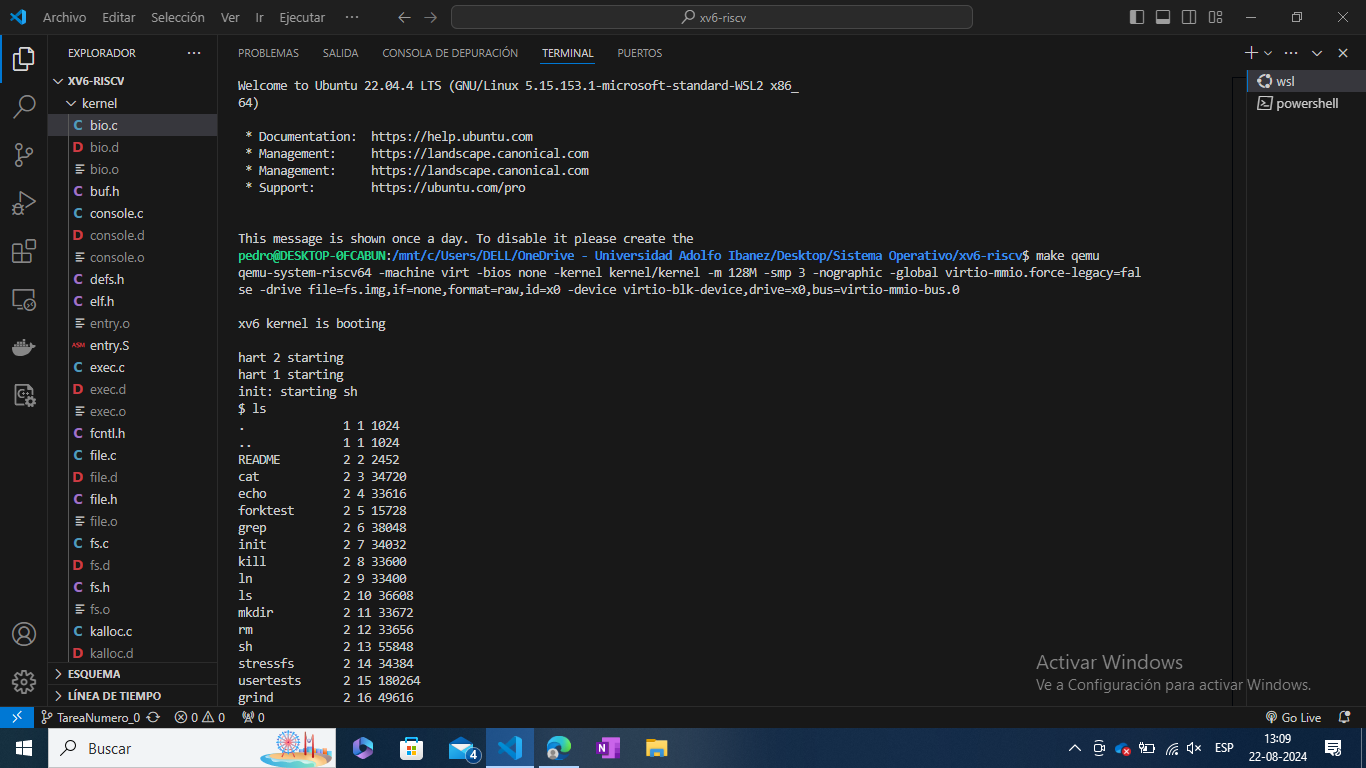
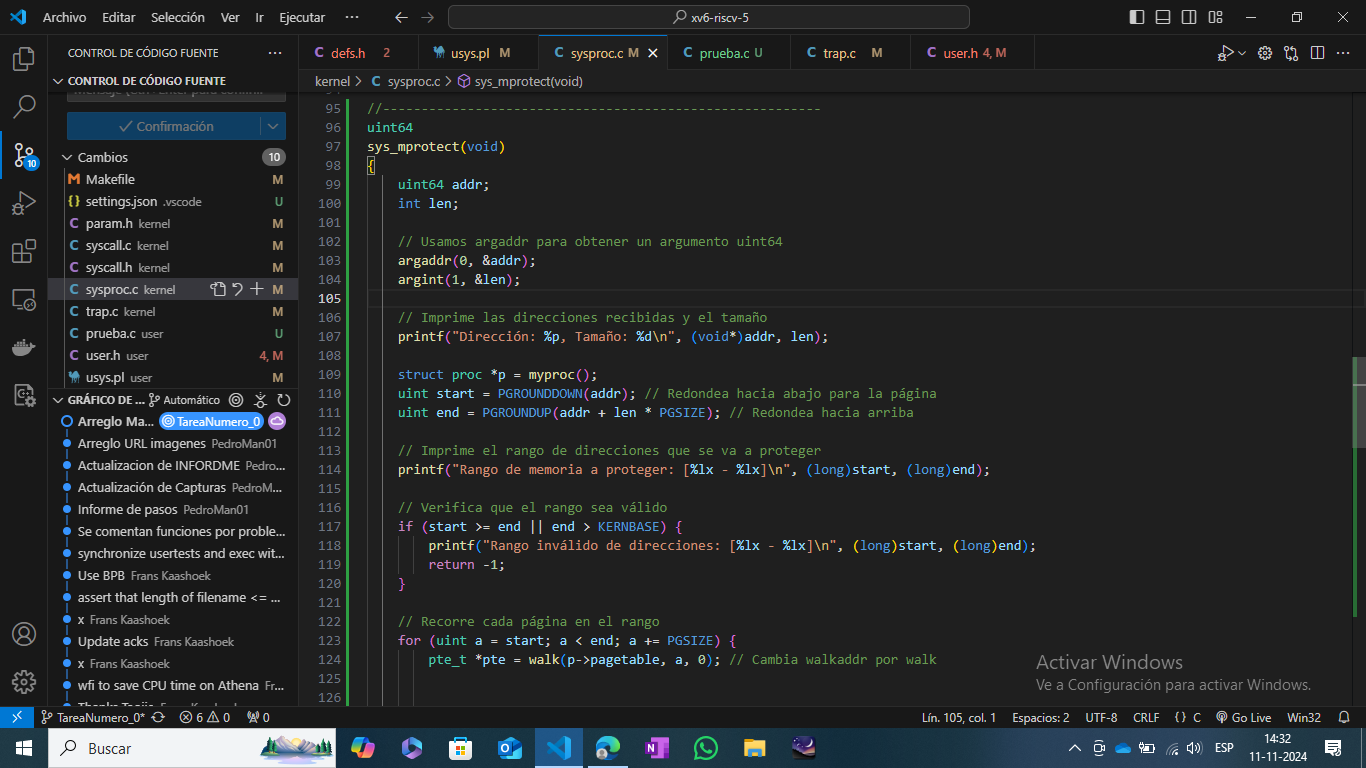
Implementación tarea 3

diff --git a/kernel/sysproc.c b/kernel/sysproc.c
@@ -91,3 +91,96 @@ sys_uptime(void)
   release(&tickslock);
   return xticks;
 }
+
+//---------------------------------------------------------
+uint64
+sys_mprotect(void)
+{
+    uint64 addr;
+    int len;
+
+    // Usamos argaddr para obtener un argumento uint64
+    argaddr(0, &addr); 
+    argint(1, &len);
+
+    // Imprime las direcciones recibidas y el tamaño
+    printf("Dirección: %p, Tamaño: %d\n", (void*)addr, len);
+
+    struct proc *p = myproc();
+    uint start = PGROUNDDOWN(addr); // Redondea hacia abajo para la página
+    uint end = PGROUNDUP(addr + len * PGSIZE); // Redondea hacia arriba
+
+    // Imprime el rango de direcciones que se va a proteger
+    printf("Rango de memoria a proteger: [%lx - %lx]\n", (long)start, (long)end);
+
+    // Verifica que el rango sea válido
+    if (start >= end || end > KERNBASE) {
+        printf("Rango inválido de direcciones: [%lx - %lx]\n", (long)start, (long)end);
+        return -1;
+    }
+
+    // Recorre cada página en el rango
+    for (uint a = start; a < end; a += PGSIZE) {
+        pte_t *pte = walk(p->pagetable, a, 0); // Cambia walkaddr por walk
+
+
+        // Imprime información sobre la página de la tabla de páginas
+        if (pte == 0) {
+            printf("No se encontró entrada de tabla para la dirección: %lx\n", (long)a);
+            return -1;
+        }
+
+        // Imprime el valor de la entrada de la tabla de páginas antes de modificarla
+        printf("PTE antes de modificar (dirección %lx): %lx\n", (long)a, (long)*pte);
+
+        if ((*pte & PTE_V) == 0) {
+            printf("Página no válida para la dirección: %lx\n", (long)a);
+            return -1;
+        }
+
+        // Desactiva el bit de escritura
+        *pte &= ~PTE_W;
+        
+        // Imprime el valor de la entrada de la tabla de páginas después de modificarla
+        printf("PTE después de modificar (dirección %lx): %lx\n", (long)a, (long)*pte);
+    }
+
+    // Instrucción de barrera para actualizar TLB
+    sfence_vma();
+
+    // Confirma que la protección se haya aplicado correctamente
+    printf("Memoria protegida con éxito.\n");
+
+    return 0;
+}
+
+// Restaura permisos de lectura/escritura
+uint64
+sys_munprotect(void)
+{
+    uint64 addr; // Cambiar a uint64
+    int len;
+    // Usamos argaddr para obtener un argumento uint64
+    argaddr(0, &addr);
+    argint(1, &len);
+
+    struct proc *p = myproc();
+    uint start = PGROUNDDOWN(addr);
+    uint end = PGROUNDUP(addr + len * PGSIZE);
+
+    if (start >= end || end > KERNBASE)
+        return -1;
+
+    for (uint a = start; a < end; a += PGSIZE) {
+        pte_t *pte = walk(p->pagetable, a, 0);
+        printf("PTE antes de modificar en munprotect (dirección %lx): %lx\n", (long)a, (long)*pte);
+        if (pte == 0 || (*pte & PTE_V) == 0)
+            return -1;
+        *pte |= PTE_W; // Reactivar el bit de escritura
+        printf("PTE después de modificar en munprotect (dirección %lx): %lx\n", (long)a, (long)*pte);
+
+    }
+    sfence_vma(); // Instrucción de barrera para actualizar TLB
+    return 0;
+}
+//---------------------------------------------------------

diff --git a/user/prueba.c b/user/prueba.c
@@ -1,0 +1,42 @@
+#include "../kernel/types.h"
+#include "../kernel/stat.h"
+#include "../kernel/param.h"
+#include "user.h"
+
+uint64 mprotect(uint64 addr, int len);
+uint64 munprotect(uint64 addr, int len);
+
+int main(void) {
+    uint64 p = (uint64) sbrk(PGSIZE);
+    int *ptr = (int*) p;
+
+    printf("Dirección de memoria asignada: %p\n", ptr);
+
+    printf("Protegiendo la memoria...\n");
+    if (mprotect(p, 1) < 0) {
+        printf("Error en mprotect\n");
+        exit(1);
+    }
+
+    printf("Intentando escribir en la memoria protegida...\n");
+    if (*ptr != 42) {
+        *ptr = 42; // Esto debería causar un fallo si mprotect funciona correctamente
+    } else {
+        printf("Error: Se pudo escribir en la memoria protegida\n");
+        exit(1);
+    }
+//--------------------------------------------
+    printf("Desprotegiendo la memoria...\n");
+    if (munprotect(p, 1) < 0) {
+        printf("Error en munprotect\n");
+        exit(1);
+    }
+
+    printf("Intentando escribir en la memoria desprotegida...\n");
+    *ptr = 42; // Esto debería funcionar sin problemas
+    printf("Valor: %d\n", *ptr);
+
+//--------------------------------------------
+
+    exit(0);
+}

diff --git a/kernel/syscall.c b/kernel/syscall.c
@@ -101,10 +101,17 @@ extern uint64 sys_unlink(void);
 extern uint64 sys_link(void);
 extern uint64 sys_mkdir(void);
 extern uint64 sys_close(void);
+//----------------------------
+extern uint64 sys_mprotect(void);
+extern uint64 sys_munprotect(void);
 
 // An array mapping syscall numbers from syscall.h
 // to the function that handles the system call.
 static uint64 (*syscalls[])(void) = {
+//------------------------------
+[SYS_mprotect]  sys_mprotect,
+[SYS_munprotect] sys_munprotect,
+//------------------------------
 [SYS_fork]    sys_fork,
 [SYS_exit]    sys_exit,
 [SYS_wait]    sys_wait,

diff --git a/kernel/trap.c b/kernel/trap.c
@@ -70,8 +70,12 @@ usertrap(void)
   } else {
     printf("usertrap(): unexpected scause 0x%lx pid=%d\n", r_scause(), p->pid);
     printf("            sepc=0x%lx stval=0x%lx\n", r_sepc(), r_stval());
-    setkilled(p);
-  }
+    // No marcar como "killed" si no quieres terminar el proceso
+    // setkilled(p);
+    // Podrías, en cambio, permitir que se recupere
+    // Como ejemplo, reseteamos el proceso para continuar
+    p->trapframe->epc += 4;  // Devolver al siguiente paso para que continúe
+}
 
   if(killed(p))
     exit(-1);

diff --git a/user/user.h b/user/user.h
@@ -23,6 +23,11 @@ char* sbrk(int);
 int sleep(int);
 int uptime(void);
 
+//----------------------------
+uint64 mprotect(uint64 addr, int len);
+uint64 munprotect(uint64 addr, int len);
+//----------------------------
+
 // ulib.c
 int stat(const char*, struct stat*);
 char* strcpy(char*, const char*);

diff --git a/kernel/param.h b/kernel/param.h
@@ -12,4 +12,5 @@
 #define FSSIZE       2000  // size of file system in blocks
 #define MAXPATH      128   // maximum file path name
 #define USERSTACK    1     // user stack pages
+#define PGSIZE 4096  // Define el tamaño de página como 4096 bytes
 

diff --git a/kernel/syscall.h b/kernel/syscall.h
@@ -20,3 +20,6 @@
 #define SYS_link   19
 #define SYS_mkdir  20
 #define SYS_close  21
+//--------------------
+#define SYS_mprotect 22
+#define SYS_munprotect 23

diff --git a/INFORME.md b/INFORME.md
@@ -1,42 +1,44 @@
-Configuración del Entorno
+Para la tarea 3
+Lo primero fué agregar las nuevas funciones "mprotect" y "munprotect" en el archivo sysproc.c para posteriormente realizar las llamadas.
 
-Paso 1: Instalación de Ubuntu en WSL
-Instalé WSL (Windows Subsystem for Linux) en mi computadora Windows siguiendo los pasos oficiales de Microsoft.
-Luego, descargué e instalé Ubuntu desde Chrome.
+![Primer Cambio](Capturas/Captura1.png)
+![Primer Cambio](Capturas/Captura2.png)
+![Primer Cambio](Capturas/Captura3.png)
+![Primer Cambio](Capturas/Captura4.png)
 
-Paso2: Configurara VScode
-Configuré VSCode para trabajar con el entorno de desarrollo WSL, instalando las extensiones necesarias para la integración.
+En segundo lugar se agregan las funciones en usys.pl que es un generador del archivo usys.S.
 
-Paso 3: Instalación de Herramientas de Desarrollo
-En Ubuntu, instalé las herramientas de desarrollo necesarias para compilar y ejecutar Xv6
+![Segundo Cambio](Capturas/Captura5.png)
 
-Paso4: Clonar repositorio
-Cloné el repositorio de Xv6 desde GitHub en mi directorio de trabajo.
-----------------------------------------------------------------------------------------------------------------------------
-Problemas Encontrados y Soluciones
+El tercer paso fue agregar las funciones como llamadas de sistema en el archivo user.h. 
 
-Problema 1: Incompatibilidad con Funciones de Temporización
+![Tercer Cambio](Capturas/Captura6.png)
 
-Al intentar compilar y ejecutar Xv6, encontré problemas de compatibilidad con las siguientes funciones en el archivo riscv.h:
-r_stimecmp()
-w_stimecmp(uint64 x)
-r_menvcfg()
-w_menvcfg(uint64 x)
+Se definieron los numeros de llamada a sistema en el archivo syscall.h
 
-Solución:
+![Cuarto Cambio](Capturas/Captura7.png)
 
-Comenté temporalmente las funciones mencionadas en riscv.h para evitar que causen errores durante la compilación.
+Se agregaron estas llamadas en el archivo syscall.c
 
-Problema 2: Incompatibilidad en el Archivo start.c
+![Quinto Cambio](Capturas/Captura8.png)
 
-También encontré un problema al inicializar la interrupción del temporizador en el archivo start.c en la siguiente línea:
-w_stimecmp(r_time() + 1000000);
+Luego de esto se definió el archivo "prueba.c" el cual va a ser el responsable de probar las nuevas funciones con una llamada de parte del usuario.
 
-Solución:
+![Sexcto Cambio](Capturas/Captura9.png)
+![Sexcto Cambio](Capturas/Captura10.png)
 
-Comenté la línea mencionada para evitar el error, lo que permitió que Xv6 se ejecutara sin problemas.
-----------------------------------------------------------------------------------------------------------------------------
-Con las funciones comentadas, Xv6 se compila y se ejecuta correctamente en mi entorno configurado en WSL.
+Por último, con respecto al archivo prueba.c se realiza la modificación en Makelife para que se reconosca la llamada de usuario de este programa.
 
-![Primera Captura del SO funcionando](Capturas/captura1.png)
-![Seguda Captura del SO funcionando](Capturas/captura2.png)
+![Septimo Cambio](Capturas/Captura11.png)
+
+La primera de las dificultades que se encontaron fue que no se encontraba definido en el sistema el tamaño de una pagina por lo que se modifico el archivo param.h para agregar este parametro y utilizarlo en prueba.c
+
+![Octavo Cambio](Capturas/Captura12.png)
+
+Una segunda dificultad que se encontró a la hora de probar el código, era que en el sistema al encontrar una excepción de intentar escribir en una pagina protegida este mataba el proceso por lo que se bucó modificar esta función para el el proceso no finalizara con la esepción.
+
+![Noveno Cambio](Capturas/Captura13.png)
+
+Por último la prueba de las nuevas función.
+
+![Décimo Cambio](Capturas/Captura14.png)
